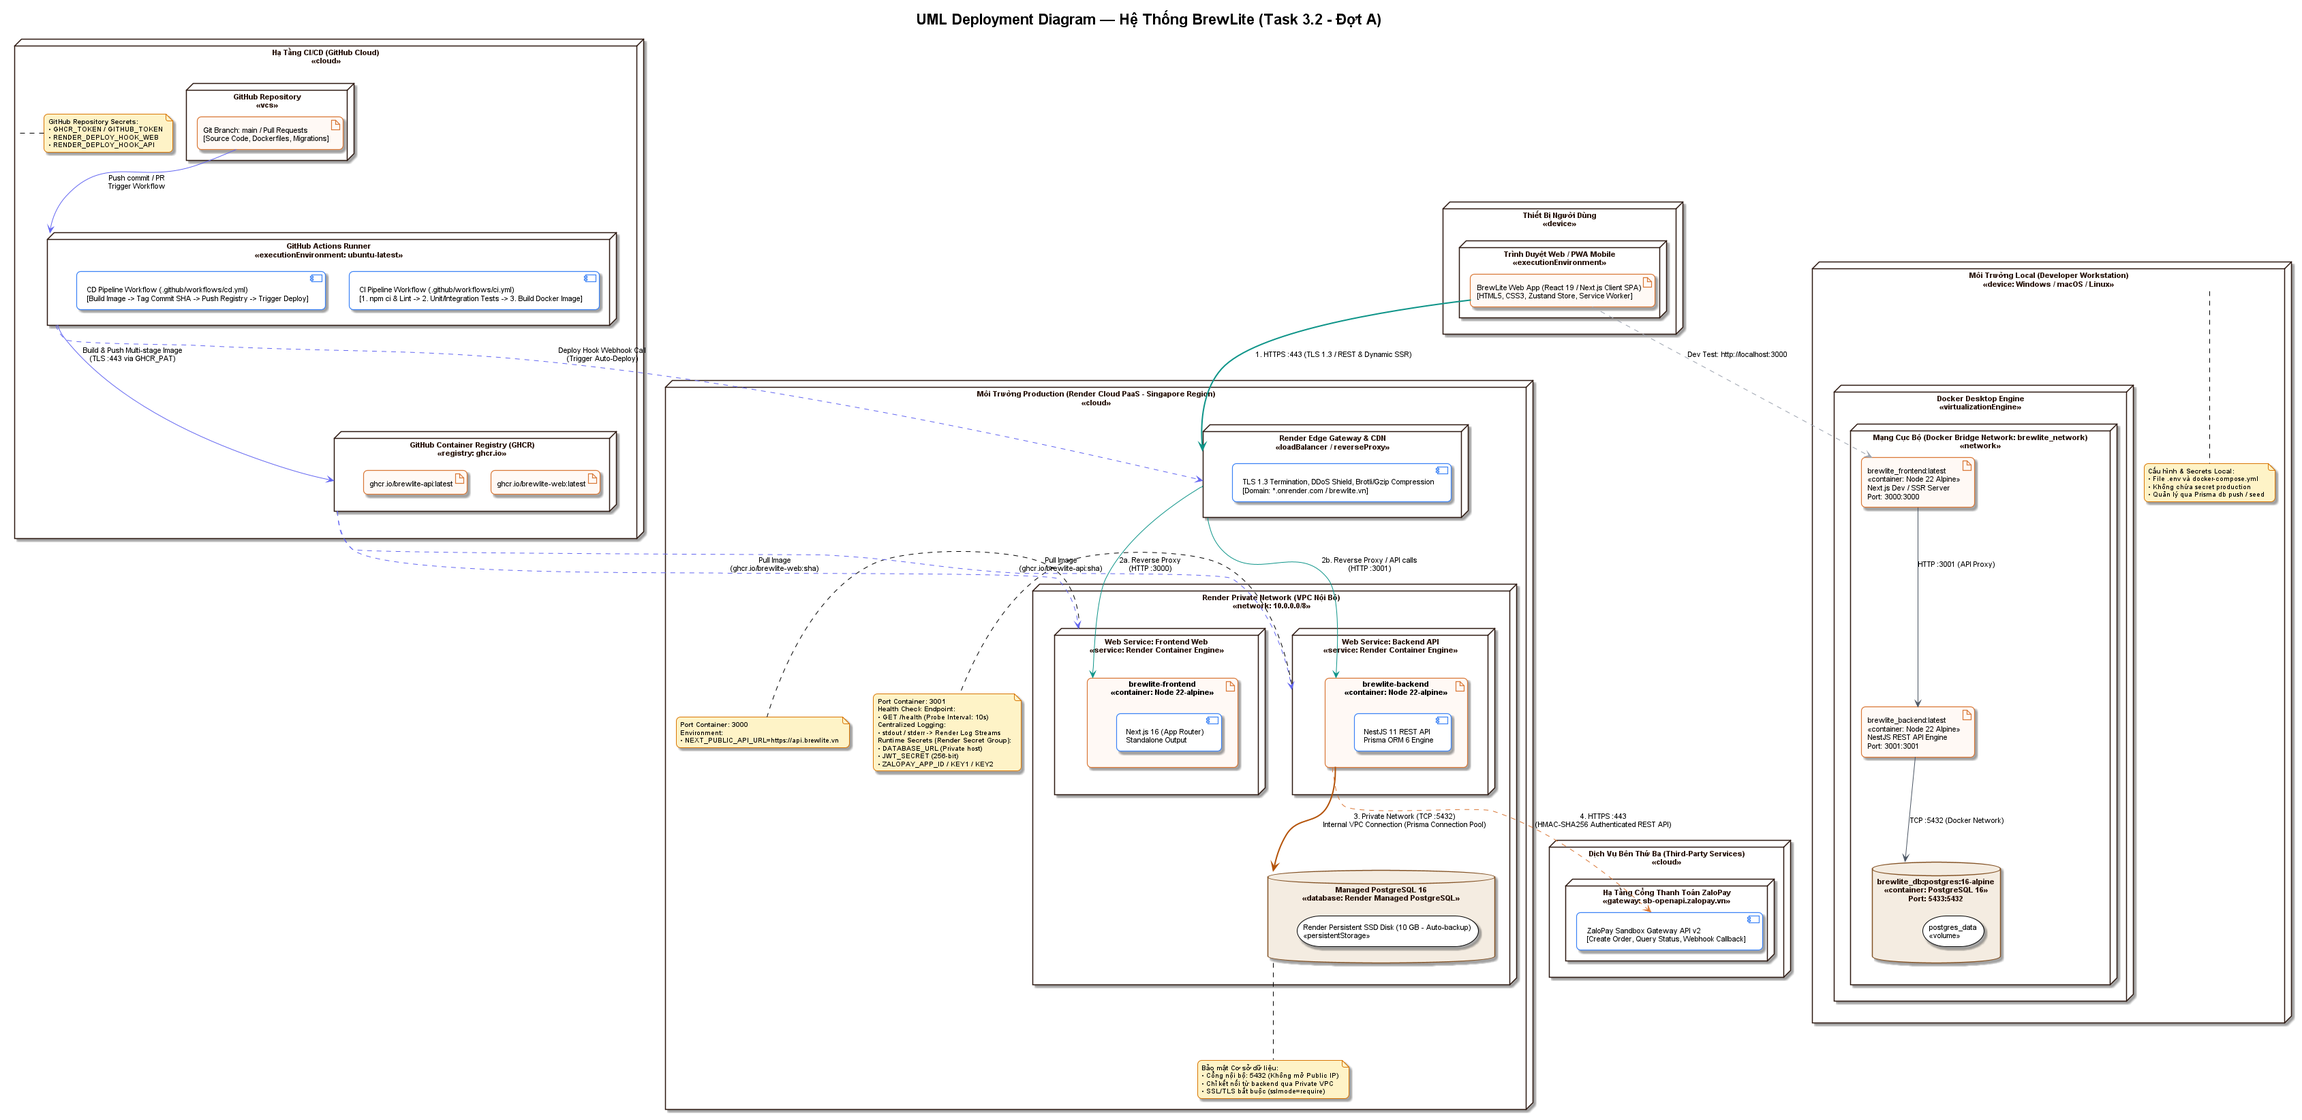
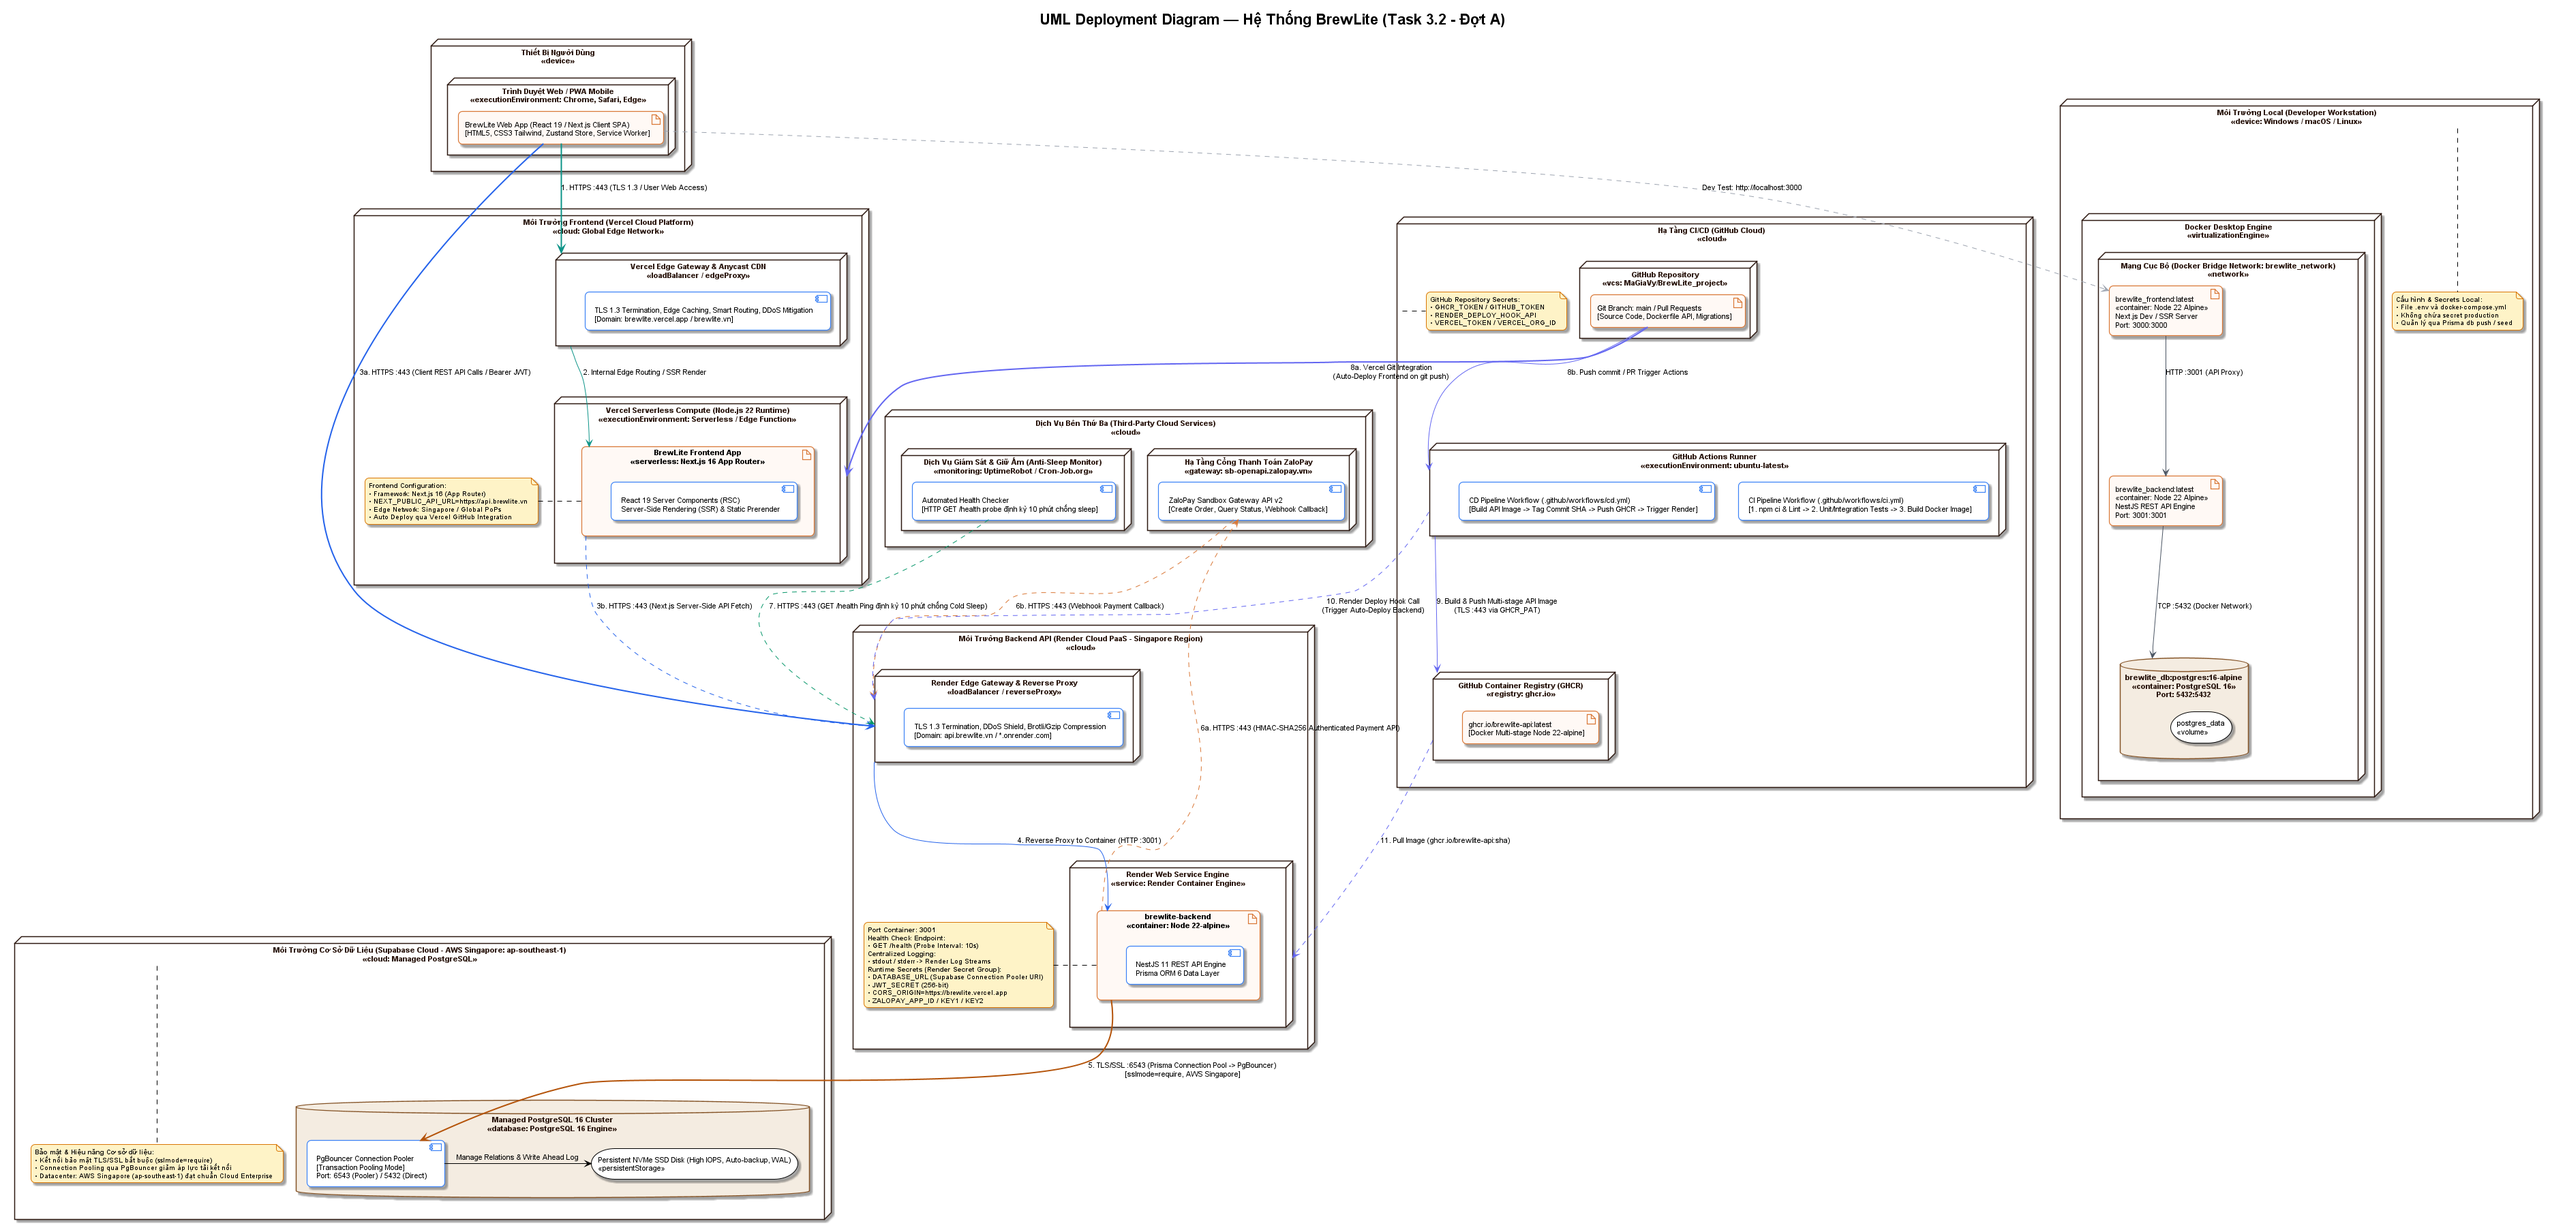
docs(deployment): update deployment diagram and architecture to Vercel + Render + Supabase hybrid cloud

diff --git a/docs/architecture/architecture.md b/docs/architecture/architecture.md
@@ -39,7 +39,7 @@ flowchart TB
 
 ## 2. Kiến trúc Mức Container (C4 Level 2: Container Diagram)
 
-Hệ thống BrewLite được tổ chức theo mô hình **Monorepo** (xem [ADR-001](./adr/001-monorepo.md)), phân tách rõ ràng giữa giao diện người dùng (Frontend), dịch vụ nghiệp vụ (Backend API) và hệ quản trị cơ sở dữ liệu (Database). Các container được đóng gói bằng Docker, lưu trữ trên GitHub Container Registry (GHCR) và triển khai lên nền tảng Render (xem [ADR-003](./adr/003-render-ghcr-deployment.md)).
+Hệ thống BrewLite được tổ chức theo mô hình **Monorepo** (xem [ADR-001](./adr/001-monorepo.md)), phân tách rõ ràng giữa giao diện người dùng (Frontend), dịch vụ nghiệp vụ (Backend API) và hệ quản trị cơ sở dữ liệu (Database). Hệ thống triển khai theo mô hình kiến trúc đám mây đa nền tảng tối ưu (xem [ADR-003](./adr/003-render-ghcr-deployment.md) và Sơ đồ triển khai Task 3.2): Frontend vận hành trên Vercel Global Edge Network, Backend API containerized trên Render Cloud PaaS (kết hợp lưu trữ ảnh trên GHCR), và Cơ sở dữ liệu PostgreSQL lưu trữ trên Supabase Cloud (AWS Singapore).
 
 ```mermaid
 flowchart TB
@@ -180,7 +180,7 @@ Mọi quyết định kiến trúc trọng yếu của dự án đều được 
 
 1. **[ADR-001: Tổ chức mã nguồn theo cấu trúc Monorepo](./adr/001-monorepo.md)** — Thống nhất quản lý `apps/web`, `apps/api`, `docs` và `tests` trên một repository duy nhất.
 2. **[ADR-002: Kiến trúc phân lớp theo Module trong NestJS](./adr/002-layered-modular-nestjs.md)** — Phân tách trách nhiệm `Controller` – `Service` – `PrismaService` theo từng miền nghiệp vụ (`auth`, `products`, `orders`, `payments`, `inventory`, `customers`, `users`, `health`).
-3. **[ADR-003: Triển khai Production trên Render kết hợp GitHub Container Registry (GHCR)](./adr/003-render-ghcr-deployment.md)** — Chuẩn hóa quy trình đóng gói Docker image trên CI, lưu trữ tại GHCR và kích hoạt triển khai qua Render Deploy Hook.
+3. **[ADR-003: Kiến trúc Triển khai Production Đa Nền tảng (Vercel, Render, Supabase & GHCR)](./adr/003-render-ghcr-deployment.md)** — Chuẩn hóa quy trình triển khai Frontend trên Vercel Edge, Backend API trên Render qua GHCR Deploy Hook, Cơ sở dữ liệu PostgreSQL trên Supabase AWS Singapore và giải pháp giữ ấm chống sleep.
 4. **[ADR-004: Sử dụng Prisma ORM và quản lý Schema/Migration cho PostgreSQL](./adr/004-prisma-migrations.md)** — Đảm bảo an toàn kiểu dữ liệu (type-safety) và khả năng tái tạo cơ sở dữ liệu nhất quán giữa Local, CI và Production.
 5. **[ADR-005: Xây dựng Dịch vụ Thanh toán Mô phỏng (`MockGatewayService`)](./adr/005-mock-payment-service.md)** — Chủ động điều khiển kịch bản thanh toán (`success`, `failure`) song hành với ZaloPay Sandbox qua biến môi trường để kiểm thử toàn diện các nhánh nghiệp vụ.
 6. **[ADR-006: Kiểm soát đặt hàng đồng thời bằng Optimistic Locking và chống trùng lặp bằng Idempotency-Key](./adr/006-optimistic-locking-idempotency.md)** — Giải quyết bài toán bán vượt tồn kho (overselling) và thanh toán lặp hai lần.
@@ -195,10 +195,11 @@ Bảng dưới đây ánh xạ trực tiếp từng container/dịch vụ trong 
 
 | Thành phần / Container (trên Deployment Diagram) | Công nghệ / Nền tảng | Mục kiến trúc tương ứng | Thư mục / Tệp mã nguồn liên quan | Cổng & Giao thức |
 | :--- | :--- | :--- | :--- | :--- |
-| **`web` (Frontend Web Container)** | Next.js 15+ (App Router, React 19, TypeScript, TailwindCSS, Zustand) | Mục 2, Mục 3.1 (ADR-001, ADR-003) | • `apps/web/`<br>• `apps/web/src/app/{menu,cart,checkout,orders,staff,admin,account,promotions}/`<br>• `apps/web/src/stores/`<br>• `apps/web/Dockerfile` | • Local: `3000` (HTTP)<br>• Production (Render): `443` (HTTPS) $\rightarrow$ container port `3000` |
-| **`api` (Backend API Container)** | NestJS (TypeScript, Passport JWT, class-validator, Prisma Client) | Mục 2, Mục 3.2, Mục 3.5 (ADR-002, ADR-006, ADR-007, ADR-008) | • `apps/api/`<br>• `apps/api/src/{auth,products,orders,payments,inventory,customers,users,health,jobs,config}/`<br>• `docs/api/openapi.yaml`<br>• `apps/api/Dockerfile` | • Local: `3001` (HTTP)<br>• Production (Render): `443` (HTTPS) $\rightarrow$ container port; Health check: `GET /health` |
+| **`web` (Frontend Web - Vercel Edge)** | Next.js 16 (App Router, React 19, TypeScript, TailwindCSS, Zustand) | Mục 2, Mục 3.1 (ADR-001, ADR-003) | • `apps/web/`<br>• `apps/web/src/app/{menu,cart,checkout,orders,staff,admin,account,promotions}/`<br>• `apps/web/src/stores/`<br>• `apps/web/Dockerfile` (local) | • Local: `3000` (HTTP)<br>• Production (Vercel): `443` (HTTPS / Edge CDN) $\rightarrow$ `brewlite.vercel.app` |
+| **`api` (Backend API Container - Render)** | NestJS 11 (TypeScript, Passport JWT, class-validator, Prisma Client) | Mục 2, Mục 3.2, Mục 3.5 (ADR-002, ADR-006, ADR-007, ADR-008) | • `apps/api/`<br>• `apps/api/src/{auth,products,orders,payments,inventory,customers,users,health,jobs,config}/`<br>• `docs/api/openapi.yaml`<br>• `apps/api/Dockerfile` | • Local: `3001` (HTTP)<br>• Production (Render): `443` (HTTPS) $\rightarrow$ container port `3001`; Health check: `GET /health` |
 | **`MockGatewayService` & `ZaloPayService`** | NestJS Injectable Services (`MOCK_PAYMENT_MODE`, `HMAC-SHA256`) | Mục 2, Mục 3.4 (ADR-005) | • `apps/api/src/payments/mock-gateway.service.ts`<br>• `apps/api/src/payments/zalopay.service.ts`<br>• `apps/api/src/payments/payments.service.ts` | Gọi nội bộ / HTTPS tới ZaloPay Sandbox từ container `api` |
-| **`db` (Database Container / Managed PostgreSQL)** | PostgreSQL 16 + Persistent Volume / Render Internal Postgres | Mục 2, Mục 3.3 (ADR-004, ADR-007, ADR-008) | • `apps/api/prisma/schema.prisma` (12 models)<br>• `apps/api/prisma/migrations/`<br>• `apps/api/prisma/seed.ts`<br>• `docker-compose.yml` | • TCP `5432` (Host local `DB_PORT:-5433` hoặc mạng nội bộ Docker / Render Private Network) |
+| **`db` (Database - Supabase PostgreSQL AWS Singapore)** | PostgreSQL 16 Managed Cluster + PgBouncer Pooler + Persistent NVMe Storage | Mục 2, Mục 3.3 (ADR-004, ADR-007, ADR-008) | • `apps/api/prisma/schema.prisma` (12 models)<br>• `apps/api/prisma/migrations/`<br>• `apps/api/prisma/seed.ts`<br>• `docker-compose.yml` (local) | • Local: TCP `5432` (Docker Network)<br>• Production: TCP `6543` (Supabase PgBouncer Pooler, `sslmode=require`, AWS Singapore) |
+| **`monitor` (Anti-Sleep Monitor)** | UptimeRobot / Cron-Job.org (Automated HTTP Health Probe) | Mục 5 (ADR-003) | • `apps/api/src/health/health.controller.ts` | HTTPS (`443`) — Gửi `GET /health` định kỳ 10 phút/lần chống sleep container Render |
 | **`tests` & `scripts` (Test Suites & Smoke)** | Playwright, Jest, Vitest & Shell Smoke Scripts | Mục 3.6 | • `apps/api/src/integration/` (Wave 3b)<br>• `tests/e2e/checkout.spec.ts` (Wave 3b)<br>• `scripts/smoke-test.{sh,ps1}` | Chạy trên local container và CI runner kiểm thử qua HTTP |
-| **`registry` (Container Registry — GHCR)** | GitHub Container Registry (`ghcr.io`) | Mục 2, Mục 5 (ADR-003) | • `.github/workflows/cd.yml`<br>• `apps/web/Dockerfile`<br>• `apps/api/Dockerfile` | HTTPS (`443`) — CI push image, Render pull image theo tag `sha` / `v*.*.*` |
-| **`ci-cd` (GitHub Actions Runner)** | GitHub Actions (`ubuntu-latest`) | Mục 4.2, Mục 5 (ADR-001, ADR-003) | • `.github/workflows/ci.yml`<br>• `.github/workflows/cd.yml`<br>• `docs/deployment.md` | HTTPS (`443`) — Chạy lint/test/build, push GHCR, gọi Render Deploy Hook và Smoke Test |
+| **`registry` (Container Registry — GHCR)** | GitHub Container Registry (`ghcr.io`) | Mục 2, Mục 5 (ADR-003) | • `.github/workflows/cd.yml`<br>• `apps/api/Dockerfile` | HTTPS (`443`) — CI push API image, Render pull image theo tag `sha` / `v*.*.*` |
+| **`ci-cd` (GitHub Actions Runner & Vercel Git)** | GitHub Actions (`ubuntu-latest`) & Vercel Git Integration | Mục 4.2, Mục 5 (ADR-001, ADR-003) | • `.github/workflows/ci.yml`<br>• `.github/workflows/cd.yml`<br>• `docs/deployment.md` | HTTPS (`443`) — Vercel auto-deploy Frontend; Actions chạy lint/test/build, push GHCR, gọi Render Deploy Hook |

diff --git a/docs/architecture/adr/003-render-ghcr-deployment.md b/docs/architecture/adr/003-render-ghcr-deployment.md
@@ -1,34 +1,46 @@
-# ADR-003: Triển khai Production trên Render kết hợp GitHub Container Registry (GHCR)
+# ADR-003: Kiến trúc Triển khai Production Đa Nền tảng (Vercel, Render, Supabase & GHCR)
 
 * **Trạng thái:** Chấp thuận (Accepted)
-* **Ngày quyết định:** 2026-10-26
-* **Người quyết định:** Huỳnh Tuấn Kiệt (với sự thống nhất của nhóm)
+* **Ngày quyết định:** 2026-10-26 (Cập nhật chuẩn hóa Wave 3a/Wave 4)
+* **Người quyết định:** Quách Kỳ Minh (Sơ đồ triển khai Task 3.2), Huỳnh Tuấn Kiệt & Vũ Châu Minh Khôi
 * **Mã task liên quan:** `T3.1`, `T3.2`, `T5.3`
 
 ---
 
 ## 1. Bối cảnh (Context)
-Đề bài Assignment 2 yêu cầu triển khai hệ thống BrewLite lên môi trường production có thể truy cập qua giao thức HTTPS công khai, cơ sở dữ liệu production không mở public cổng ra ngoài Internet, và quy trình phát hành phải được tự động hóa qua pipeline CD (kích hoạt khi push tag phiên bản `v*.*.*`). Cần lựa chọn nền tảng đám mây phù hợp với ngân sách sinh viên (gói miễn phí), hỗ trợ Docker container và bảo mật cấu hình.
+Đề bài Assignment 2 yêu cầu triển khai hệ thống BrewLite lên môi trường production có thể truy cập qua giao thức HTTPS công khai, cơ sở dữ liệu production đạt chuẩn bảo mật và hiệu năng cao, và quy trình phát hành phải được tự động hóa qua pipeline CI/CD (kích hoạt khi push code/tag phiên bản). Cần lựa chọn nền tảng đám mây phù hợp với ngân sách sinh viên ($0 chi phí, không phụ thuộc thẻ tín dụng quốc tế), đảm bảo tốc độ phản hồi người dùng cao nhất và tránh rủi ro cơ sở dữ liệu bị xóa hoặc ngủ đông (cold-sleep).
 
 ## 2. Quyết định (Decision)
-Nhóm quyết định lựa chọn giải pháp:
-1. **GitHub Container Registry (GHCR — `ghcr.io`):** Là kho lưu trữ Docker Image tập trung. Pipeline CD trên GitHub Actions sẽ đóng gói các image `brewlite-web` và `brewlite-api`, gắn nhãn (tag) bằng mã commit SHA và semantic version (`v1.0.0`), sau đó push lên GHCR.
-2. **Nền tảng Đám mây Render (`render.com`):**
-   * Triển khai dịch vụ `web` (Next.js) và `api` (NestJS) từ image trên GHCR.
-   * Triển khai dịch vụ cơ sở dữ liệu `PostgreSQL` trên mạng nội bộ của Render (Private Network), không gán địa chỉ IP công khai cho cơ sở dữ liệu.
-   * Kích hoạt cập nhật thông qua Render Deploy Hook bí mật được lưu trữ trong GitHub Secrets.
+Nhóm quyết định lựa chọn giải pháp kiến trúc đám mây đa nền tảng tối ưu (Hybrid Cloud Architecture):
+1. **Frontend Web (Vercel Cloud Platform):**
+   * Triển khai ứng dụng `apps/web` (Next.js 16 App Router, React 19) trực tiếp lên mạng lưới Vercel Global Edge Network.
+   * Tự động hóa phát hành qua Vercel GitHub Integration (tự động build, prerender tĩnh và deploy khi có commit mới trên nhánh `main`).
+   * Tối ưu hóa tuyệt đối tốc độ tải trang, Next.js Server Components (RSC) và Edge Caching toàn cầu.
+2. **Backend API (Render Cloud PaaS - Singapore Region):**
+   * Đóng gói ứng dụng `apps/api` (NestJS 11 REST API) thành Docker multi-stage container image trên môi trường Node 22-alpine.
+   * Pipeline CD trên GitHub Actions đóng gói image, lưu trữ trên GitHub Container Registry (GHCR — `ghcr.io/brewlite-api`) và kích hoạt triển khai tự động qua Render Deploy Hook.
+   * Cung cấp endpoint kiểm tra tình trạng dịch vụ `GET /health` (Probe interval 10s).
+3. **Cơ sở dữ liệu (Supabase Cloud - Managed PostgreSQL 16 trên AWS Singapore `ap-southeast-1`):**
+   * Cung cấp cụm PostgreSQL 16 chuyên dụng, lưu trữ SSD NVMe hiệu năng cao, tự động sao lưu.
+   * Kết nối thông qua PgBouncer Connection Pooler (cổng `6543`) giúp chịu tải kết nối đồng thời từ Prisma ORM.
+   * Bắt buộc mã hóa đường truyền qua giao thức TLS/SSL (`sslmode=require`). Không bị xóa sau 30 ngày.
+4. **Dịch vụ Giữ ấm (Anti-Sleep Monitoring):**
+   * Tích hợp dịch vụ giám sát tự động (UptimeRobot / Cron-Job.org) gửi yêu cầu HTTP `GET /health` định kỳ 10 phút/lần nhằm duy trì container Render luôn ở trạng thái hoạt động (warm state), loại bỏ hoàn toàn độ trễ khởi động nguội (cold-start).
+5. **Cổng thanh toán bên thứ ba:**
+   * Tích hợp ZaloPay Sandbox Gateway API v2 thông qua HMAC-SHA256 REST API và Webhook callback bảo mật.
 
 ## 3. Hệ quả (Consequences)
 
 ### Ưu điểm (Pros):
-* **Bảo mật tuyệt đối cho dữ liệu:** Cơ sở dữ liệu PostgreSQL chỉ lắng nghe kết nối nội bộ từ container API qua cổng `5432`, ngăn chặn nguy cơ tấn công trực tiếp từ bên ngoài.
-* **Tự động hóa hoàn toàn:** Việc triển khai được kích hoạt tự động qua GitHub Actions khi gắn tag release.
-* **Chi phí tối ưu:** Tận dụng được gói miễn phí của Render và GHCR cho bài tập lớn.
+* **Hiệu năng vượt trội:** Frontend được phân phối trên mạng CDN toàn cầu của Vercel cho thời gian phản hồi dưới 1 giây.
+* **Độ tin cậy của dữ liệu:** Supabase đặt trên hạ tầng AWS Singapore (gần Việt Nam nhất), hỗ trợ connection pooling và bảo vệ dữ liệu vĩnh viễn trong suốt thời gian chấm đồ án.
+* **Tự động hóa hoàn toàn:** Tách bạch rõ ràng giữa luồng Vercel Git Integration cho Web và GitHub Actions + GHCR cho API.
+* **Chi phí tối ưu $0:** Tận dụng 100% các gói miễn phí tiêu chuẩn của các nền tảng hàng đầu, không rủi ro phát sinh cước phí ngoài ý muốn.
+* **Giải quyết triệt để cold-start:** Dịch vụ giữ ấm đảm bảo giảng viên và hội đồng khi truy cập chấm bài đều nhận được phản hồi tức thì.
 
 ### Nhược điểm & Hạn chế (Cons):
-* Gói miễn phí của Render có hiện tượng "ngủ đông" (spin-down khi không có request trong 15 phút), dẫn đến lần tải đầu tiên (cold-start) có thể mất từ 30–50 giây.
-* Database miễn phí trên Render có giới hạn thời gian sử dụng (cần kiểm tra hạn trước ngày nghiệm thu).
+* Phải quản lý cấu hình CORS giữa tên miền của Vercel (`*.vercel.app`) và API của Render (`*.onrender.com`).
+* Cần khai báo chính xác chuỗi kết nối Supabase Connection Pooler (`DATABASE_URL`) trong nhóm Render Secret Group.
 
 ### Sự đánh đổi (Trade-off):
-Chấp nhận thời gian khởi động chậm hơn khi cold-start và thời gian build image trên GHCR để đổi lấy sự an toàn về dữ liệu mạng nội bộ và tính năng triển khai container chuyên nghiệp.
-
+Chấp nhận chia tách quản lý giữa Vercel, Render và Supabase để đổi lấy hiệu năng cao nhất cho Next.js, tính ổn định dài hạn của cơ sở dữ liệu PostgreSQL và loại bỏ rủi ro tài chính.
